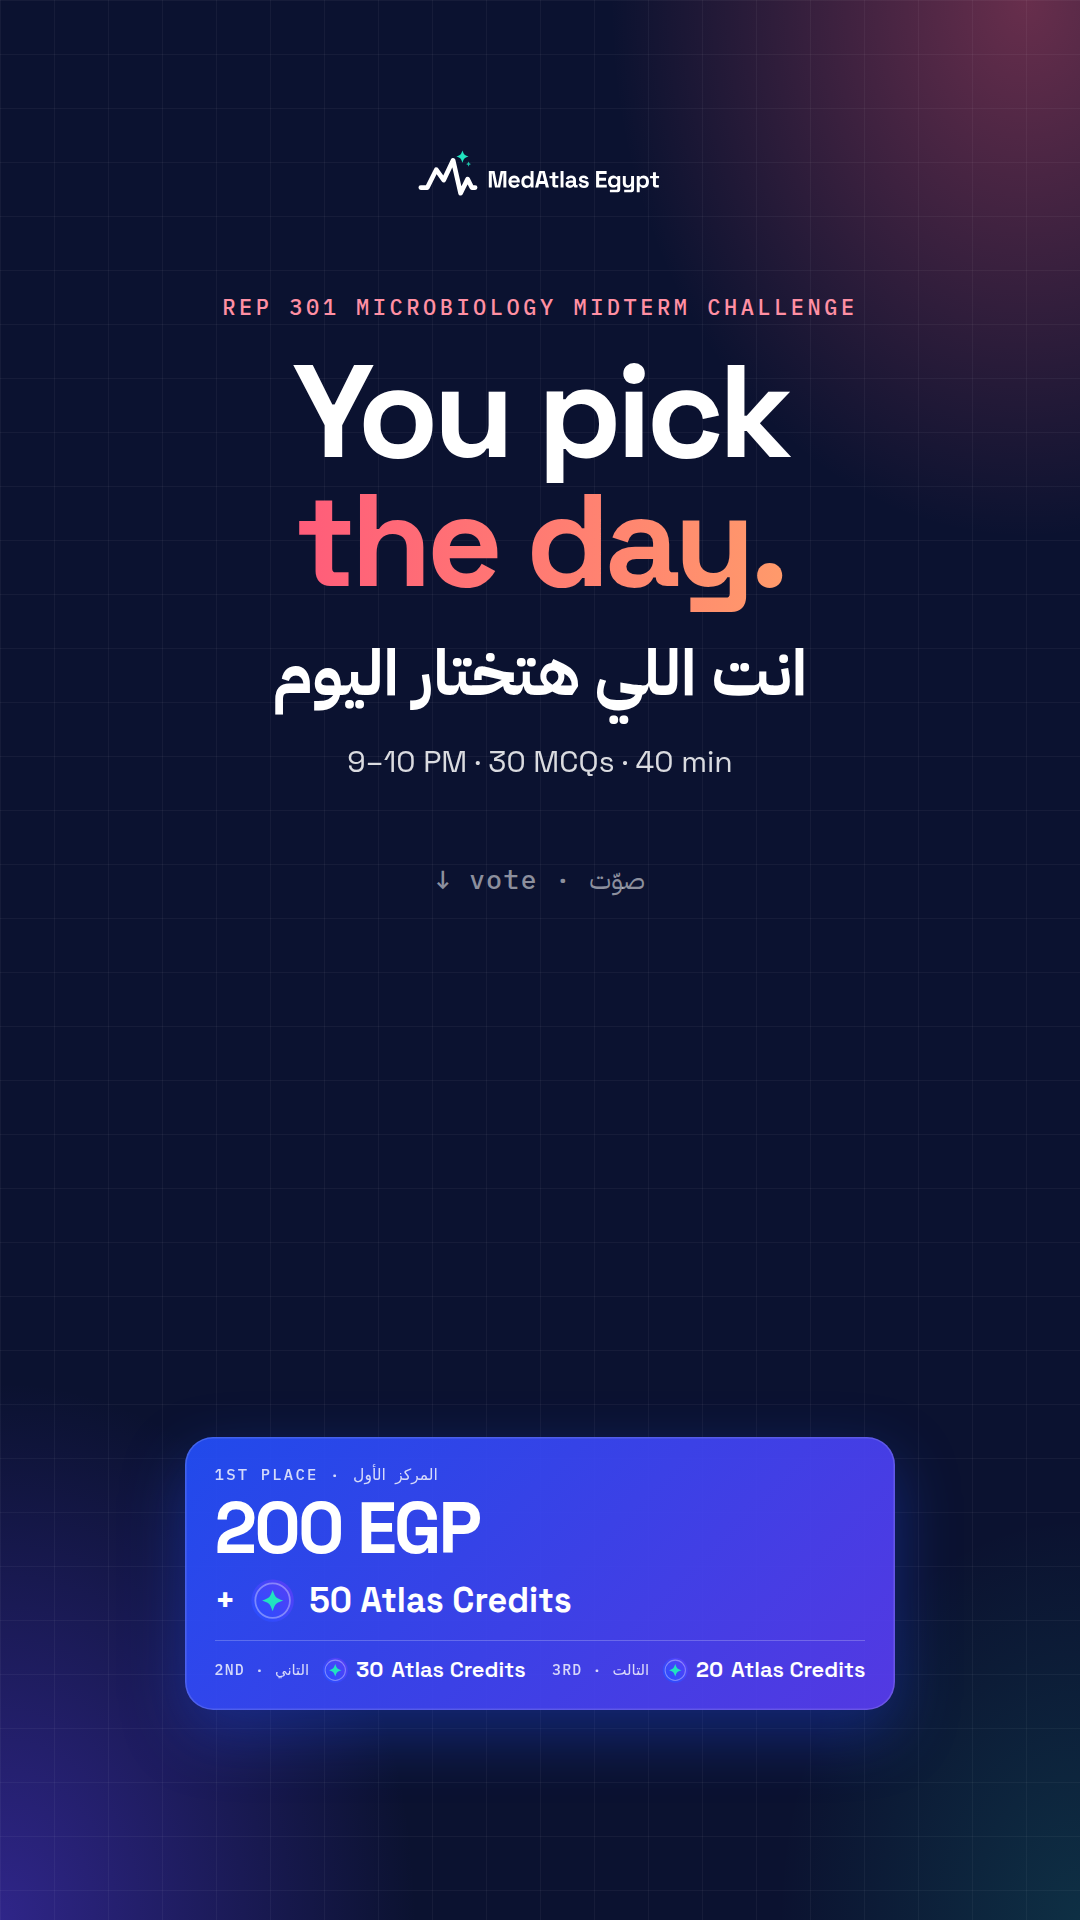
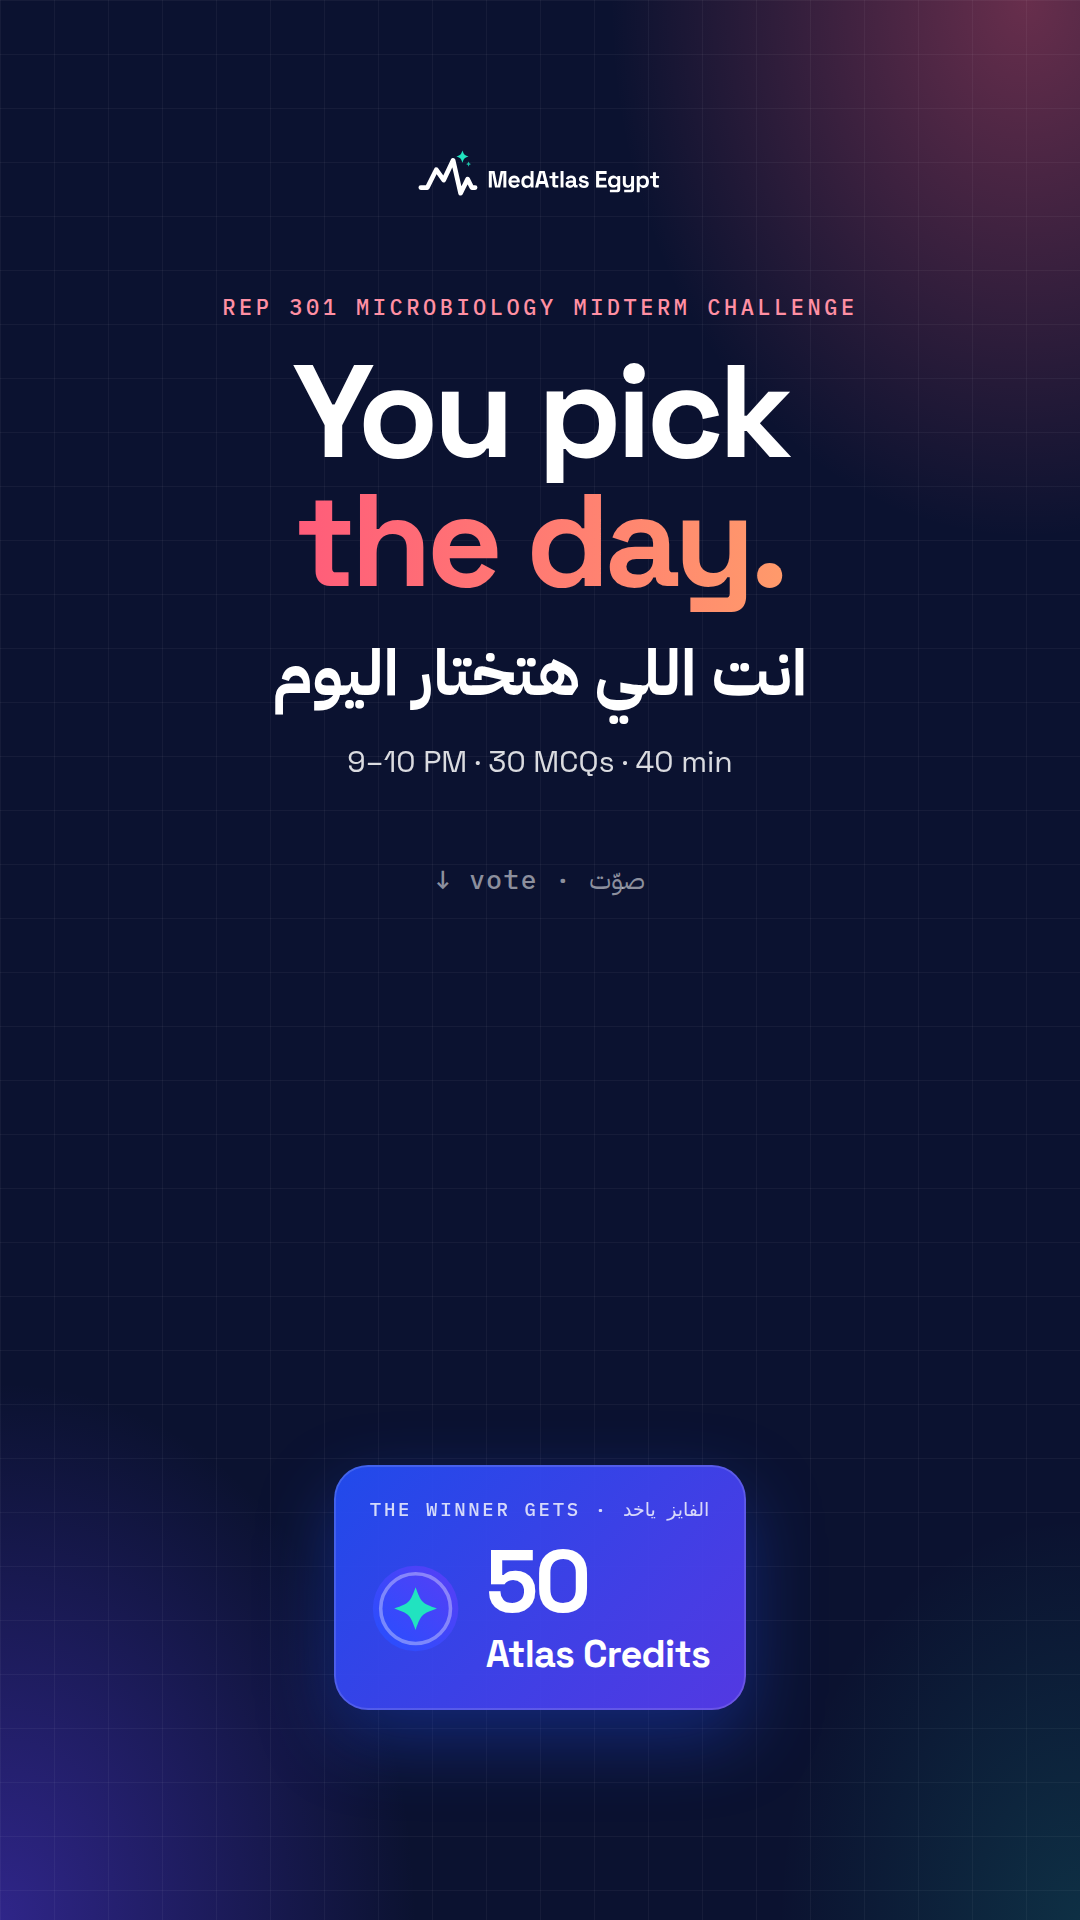
REP challenge designs: winner-only prize of 50 Atlas Credits

Changed region(s): [[0.1528, 0.75, 0.8556, 0.9062]]

diff --git a/_source/rep-challenge/post-comp-rep-challenge.html b/_source/rep-challenge/post-comp-rep-challenge.html
@@ -1,15 +1,14 @@
 <!doctype html><html><head><meta charset="utf-8"><link rel="stylesheet" href="../comp.css"><style>:root{--w:1080px;--h:1350px}.fact{padding:16px 24px}.fact b{font-size:31px}</style></head><body><div class="frame">
   <div class="top"><img src="../../../logo/final/svg/medatlas-logo-horizontal-reversed.svg" alt=""><span class="chip rep-c">Thu 15 Oct · 9 PM</span></div>
-  <div style="margin-top:34px"><span class="label">New competition · مسابقة جديدة</span></div>
-  <div class="h1" style="--h1:96px;margin-top:18px"><span class="sub">Microbiology</span>REP 301<br><span class="rep">Midterm Challenge.</span></div>
-  <div class="ar-line" style="margin-top:10px;font-size:48px">تحدّي ميدترم ميكرو REP 301</div>
-  <div class="body" style="margin-top:8px;font-size:29px">30 MCQs (cases included) on the 2 REP lectures.</div>
-  <div style="margin-top:22px"><div class="prize" style="zoom:0.86">
-  <div class="k">1st place · المركز الأول</div><div class="v">200 EGP</div>
-  <div class="plus">+ <svg width="58" height="58" viewBox="0 0 128 128"><defs><linearGradient id="cg1" x1="0" y1="128" x2="128" y2="0" gradientUnits="userSpaceOnUse"><stop offset="0" stop-color="#2350FF"/><stop offset="1" stop-color="#5B3DF5"/></linearGradient></defs><circle cx="64" cy="64" r="60" fill="url(#cg1)"/><circle cx="64" cy="64" r="49" fill="none" stroke="#fff" stroke-opacity=".35" stroke-width="5"/><path d="M64 34 C72.1 55.9 72.1 55.9 94 64 C72.1 72.1 72.1 72.1 64 94 C55.9 72.1 55.9 72.1 34 64 C55.9 55.9 55.9 55.9 64 34 Z" fill="#21E3C0"/></svg> 50 Atlas Credits</div>
-  <div class="runners"><div><span class="pl">2nd · التاني</span><svg width="34" height="34" viewBox="0 0 128 128"><defs><linearGradient id="cg2" x1="0" y1="128" x2="128" y2="0" gradientUnits="userSpaceOnUse"><stop offset="0" stop-color="#2350FF"/><stop offset="1" stop-color="#5B3DF5"/></linearGradient></defs><circle cx="64" cy="64" r="60" fill="url(#cg2)"/><circle cx="64" cy="64" r="49" fill="none" stroke="#fff" stroke-opacity=".35" stroke-width="5"/><path d="M64 34 C72.1 55.9 72.1 55.9 94 64 C72.1 72.1 72.1 72.1 64 94 C55.9 72.1 55.9 72.1 34 64 C55.9 55.9 55.9 55.9 64 34 Z" fill="#21E3C0"/></svg><b>30</b> Atlas Credits</div><div><span class="pl">3rd · التالت</span><svg width="34" height="34" viewBox="0 0 128 128"><defs><linearGradient id="cg3" x1="0" y1="128" x2="128" y2="0" gradientUnits="userSpaceOnUse"><stop offset="0" stop-color="#2350FF"/><stop offset="1" stop-color="#5B3DF5"/></linearGradient></defs><circle cx="64" cy="64" r="60" fill="url(#cg3)"/><circle cx="64" cy="64" r="49" fill="none" stroke="#fff" stroke-opacity=".35" stroke-width="5"/><path d="M64 34 C72.1 55.9 72.1 55.9 94 64 C72.1 72.1 72.1 72.1 64 94 C55.9 72.1 55.9 72.1 34 64 C55.9 55.9 55.9 55.9 64 34 Z" fill="#21E3C0"/></svg><b>20</b> Atlas Credits</div></div>
+  <div style="margin-top:44px"><span class="label">New competition · مسابقة جديدة</span></div>
+  <div class="h1" style="--h1:112px;margin-top:22px"><span class="sub">Microbiology</span>REP 301<br><span class="rep">Midterm Challenge.</span></div>
+  <div class="ar-line" style="margin-top:14px;font-size:52px">تحدّي ميدترم ميكرو REP 301</div>
+  <div class="body" style="margin-top:10px;font-size:31px">30 MCQs (cases included) on the 2 REP lectures.</div>
+  <div style="margin-top:36px"><div class="prize" style="zoom:1">
+  <div class="k">The winner gets · الفايز ياخد</div>
+  <div class="win"><svg width="96" height="96" viewBox="0 0 128 128"><defs><linearGradient id="cg1" x1="0" y1="128" x2="128" y2="0" gradientUnits="userSpaceOnUse"><stop offset="0" stop-color="#2350FF"/><stop offset="1" stop-color="#5B3DF5"/></linearGradient></defs><circle cx="64" cy="64" r="60" fill="url(#cg1)"/><circle cx="64" cy="64" r="49" fill="none" stroke="#fff" stroke-opacity=".35" stroke-width="5"/><path d="M64 34 C72.1 55.9 72.1 55.9 94 64 C72.1 72.1 72.1 72.1 64 94 C55.9 72.1 55.9 72.1 34 64 C55.9 55.9 55.9 55.9 64 34 Z" fill="#21E3C0"/></svg><div><div class="v">50</div><div class="u">Atlas Credits</div></div></div>
 </div></div>
-  <div class="facts" style="margin-top:18px">
+  <div class="facts" style="margin-top:22px">
     <div class="fact"><b>Thu 15 Oct · 9 PM</b><span class="ar">الخميس 15 أكتوبر، 9 مساءً</span></div>
     <div class="fact"><b>30 MCQs · 40 min</b><span class="ar">30 سؤال في 40 دقيقة</span></div>
   </div>

diff --git a/_source/rep-challenge/story-comp-rules.html b/_source/rep-challenge/story-comp-rules.html
@@ -5,8 +5,7 @@
   <div class="ar-line" style="margin-top:4px;font-size:48px">إزاي تشارك</div>
   <div style="margin-top:22px"><div class="rule"><div class="n">1</div><div><div class="en">Follow @medatlas_eg on Instagram and join our WhatsApp Channel</div><div class="arx">تابعنا على إنستجرام وانضم لقناة الواتساب</div></div></div><div class="rule"><div class="n">2</div><div><div class="en">Sign up on MedAtlas, free</div><div class="arx">سجّل على MedAtlas ببلاش</div></div></div><div class="rule"><div class="n">3</div><div><div class="en">Thu 15 Oct · opens 9:00 PM · last entry 9:15 PM</div><div class="arx">الخميس 15 أكتوبر: يفتح 9:00 م، وآخر دخول 9:15 م</div></div></div><div class="rule"><div class="n">4</div><div><div class="en">30 MCQs (cases included) · 40 min · 1 attempt</div><div class="arx">30 سؤال منهم حالات مرضية، 40 دقيقة، ومحاولة واحدة</div></div></div><div class="rule"><div class="n">5</div><div><div class="en">Highest score wins · tie? fastest wins</div><div class="arx">أعلى درجة تكسب، ولو في تعادل الأسرع يكسب</div></div></div><div class="rule"><div class="n">6</div><div><div class="en">Winners checked by university ID + Instagram, announced Fri 16 Oct, 8 PM</div><div class="arx">هنتأكد من الفايزين ونعلنهم الجمعة 16 أكتوبر 8 م، مع الإجابات</div></div></div></div>
   <div style="margin-top:8px"><div class="prize" style="zoom:0.8">
-  <div class="k">1st place · المركز الأول</div><div class="v">200 EGP</div>
-  <div class="plus">+ <svg width="58" height="58" viewBox="0 0 128 128"><defs><linearGradient id="cg4" x1="0" y1="128" x2="128" y2="0" gradientUnits="userSpaceOnUse"><stop offset="0" stop-color="#2350FF"/><stop offset="1" stop-color="#5B3DF5"/></linearGradient></defs><circle cx="64" cy="64" r="60" fill="url(#cg4)"/><circle cx="64" cy="64" r="49" fill="none" stroke="#fff" stroke-opacity=".35" stroke-width="5"/><path d="M64 34 C72.1 55.9 72.1 55.9 94 64 C72.1 72.1 72.1 72.1 64 94 C55.9 72.1 55.9 72.1 34 64 C55.9 55.9 55.9 55.9 64 34 Z" fill="#21E3C0"/></svg> 50 Atlas Credits</div>
-  <div class="runners"><div><span class="pl">2nd · التاني</span><svg width="34" height="34" viewBox="0 0 128 128"><defs><linearGradient id="cg5" x1="0" y1="128" x2="128" y2="0" gradientUnits="userSpaceOnUse"><stop offset="0" stop-color="#2350FF"/><stop offset="1" stop-color="#5B3DF5"/></linearGradient></defs><circle cx="64" cy="64" r="60" fill="url(#cg5)"/><circle cx="64" cy="64" r="49" fill="none" stroke="#fff" stroke-opacity=".35" stroke-width="5"/><path d="M64 34 C72.1 55.9 72.1 55.9 94 64 C72.1 72.1 72.1 72.1 64 94 C55.9 72.1 55.9 72.1 34 64 C55.9 55.9 55.9 55.9 64 34 Z" fill="#21E3C0"/></svg><b>30</b> Atlas Credits</div><div><span class="pl">3rd · التالت</span><svg width="34" height="34" viewBox="0 0 128 128"><defs><linearGradient id="cg6" x1="0" y1="128" x2="128" y2="0" gradientUnits="userSpaceOnUse"><stop offset="0" stop-color="#2350FF"/><stop offset="1" stop-color="#5B3DF5"/></linearGradient></defs><circle cx="64" cy="64" r="60" fill="url(#cg6)"/><circle cx="64" cy="64" r="49" fill="none" stroke="#fff" stroke-opacity=".35" stroke-width="5"/><path d="M64 34 C72.1 55.9 72.1 55.9 94 64 C72.1 72.1 72.1 72.1 64 94 C55.9 72.1 55.9 72.1 34 64 C55.9 55.9 55.9 55.9 64 34 Z" fill="#21E3C0"/></svg><b>20</b> Atlas Credits</div></div>
+  <div class="k">The winner gets · الفايز ياخد</div>
+  <div class="win"><svg width="96" height="96" viewBox="0 0 128 128"><defs><linearGradient id="cg2" x1="0" y1="128" x2="128" y2="0" gradientUnits="userSpaceOnUse"><stop offset="0" stop-color="#2350FF"/><stop offset="1" stop-color="#5B3DF5"/></linearGradient></defs><circle cx="64" cy="64" r="60" fill="url(#cg2)"/><circle cx="64" cy="64" r="49" fill="none" stroke="#fff" stroke-opacity=".35" stroke-width="5"/><path d="M64 34 C72.1 55.9 72.1 55.9 94 64 C72.1 72.1 72.1 72.1 64 94 C55.9 72.1 55.9 72.1 34 64 C55.9 55.9 55.9 55.9 64 34 Z" fill="#21E3C0"/></svg><div><div class="v">50</div><div class="u">Atlas Credits</div></div></div>
 </div></div>
   <div class="body" style="margin-top:20px;font-size:25px;opacity:.65">Only your first attempt counts · <span class="ar">أول محاولة بس اللي بتتحسب</span></div></div></body></html>

diff --git a/_source/rep-challenge/story-comp-countdown.html b/_source/rep-challenge/story-comp-countdown.html
@@ -5,9 +5,8 @@
   <div class="ar" style="font-weight:700;font-size:56px;margin-top:18px">تحدّي ميدترم ميكرو REP 301</div>
   <div class="body" style="margin-top:14px;font-size:30px">30 MCQs · 40 min · <span class="ar">الخميس 9 مساءً</span></div></div>
   <div style="margin:48px auto 0"><div class="prize" style="zoom:0.95">
-  <div class="k">1st place · المركز الأول</div><div class="v">200 EGP</div>
-  <div class="plus">+ <svg width="58" height="58" viewBox="0 0 128 128"><defs><linearGradient id="cg7" x1="0" y1="128" x2="128" y2="0" gradientUnits="userSpaceOnUse"><stop offset="0" stop-color="#2350FF"/><stop offset="1" stop-color="#5B3DF5"/></linearGradient></defs><circle cx="64" cy="64" r="60" fill="url(#cg7)"/><circle cx="64" cy="64" r="49" fill="none" stroke="#fff" stroke-opacity=".35" stroke-width="5"/><path d="M64 34 C72.1 55.9 72.1 55.9 94 64 C72.1 72.1 72.1 72.1 64 94 C55.9 72.1 55.9 72.1 34 64 C55.9 55.9 55.9 55.9 64 34 Z" fill="#21E3C0"/></svg> 50 Atlas Credits</div>
-  <div class="runners"><div><span class="pl">2nd · التاني</span><svg width="34" height="34" viewBox="0 0 128 128"><defs><linearGradient id="cg8" x1="0" y1="128" x2="128" y2="0" gradientUnits="userSpaceOnUse"><stop offset="0" stop-color="#2350FF"/><stop offset="1" stop-color="#5B3DF5"/></linearGradient></defs><circle cx="64" cy="64" r="60" fill="url(#cg8)"/><circle cx="64" cy="64" r="49" fill="none" stroke="#fff" stroke-opacity=".35" stroke-width="5"/><path d="M64 34 C72.1 55.9 72.1 55.9 94 64 C72.1 72.1 72.1 72.1 64 94 C55.9 72.1 55.9 72.1 34 64 C55.9 55.9 55.9 55.9 64 34 Z" fill="#21E3C0"/></svg><b>30</b> Atlas Credits</div><div><span class="pl">3rd · التالت</span><svg width="34" height="34" viewBox="0 0 128 128"><defs><linearGradient id="cg9" x1="0" y1="128" x2="128" y2="0" gradientUnits="userSpaceOnUse"><stop offset="0" stop-color="#2350FF"/><stop offset="1" stop-color="#5B3DF5"/></linearGradient></defs><circle cx="64" cy="64" r="60" fill="url(#cg9)"/><circle cx="64" cy="64" r="49" fill="none" stroke="#fff" stroke-opacity=".35" stroke-width="5"/><path d="M64 34 C72.1 55.9 72.1 55.9 94 64 C72.1 72.1 72.1 72.1 64 94 C55.9 72.1 55.9 72.1 34 64 C55.9 55.9 55.9 55.9 64 34 Z" fill="#21E3C0"/></svg><b>20</b> Atlas Credits</div></div>
+  <div class="k">The winner gets · الفايز ياخد</div>
+  <div class="win"><svg width="96" height="96" viewBox="0 0 128 128"><defs><linearGradient id="cg3" x1="0" y1="128" x2="128" y2="0" gradientUnits="userSpaceOnUse"><stop offset="0" stop-color="#2350FF"/><stop offset="1" stop-color="#5B3DF5"/></linearGradient></defs><circle cx="64" cy="64" r="60" fill="url(#cg3)"/><circle cx="64" cy="64" r="49" fill="none" stroke="#fff" stroke-opacity=".35" stroke-width="5"/><path d="M64 34 C72.1 55.9 72.1 55.9 94 64 C72.1 72.1 72.1 72.1 64 94 C55.9 72.1 55.9 72.1 34 64 C55.9 55.9 55.9 55.9 64 34 Z" fill="#21E3C0"/></svg><div><div class="v">50</div><div class="u">Atlas Credits</div></div></div>
 </div></div>
   <div style="flex:1"></div>
   <div class="body" style="text-align:center;font-size:28px;opacity:.7">↓ set a reminder · <span class="ar">فعّل التذكير</span></div>

diff --git a/_source/rep-challenge/story-comp-poll.html b/_source/rep-challenge/story-comp-poll.html
@@ -6,8 +6,7 @@
   <div class="body" style="margin-top:18px;font-size:30px">9–10 PM · 30 MCQs · 40 min</div></div>
   <div class="slot"><span>↓ vote · <span class="ar">صوّت</span></span></div>
   <div style="flex:1"></div>
-  <div style="margin:0 auto"><div class="prize" style="zoom:0.78">
-  <div class="k">1st place · المركز الأول</div><div class="v">200 EGP</div>
-  <div class="plus">+ <svg width="58" height="58" viewBox="0 0 128 128"><defs><linearGradient id="cg10" x1="0" y1="128" x2="128" y2="0" gradientUnits="userSpaceOnUse"><stop offset="0" stop-color="#2350FF"/><stop offset="1" stop-color="#5B3DF5"/></linearGradient></defs><circle cx="64" cy="64" r="60" fill="url(#cg10)"/><circle cx="64" cy="64" r="49" fill="none" stroke="#fff" stroke-opacity=".35" stroke-width="5"/><path d="M64 34 C72.1 55.9 72.1 55.9 94 64 C72.1 72.1 72.1 72.1 64 94 C55.9 72.1 55.9 72.1 34 64 C55.9 55.9 55.9 55.9 64 34 Z" fill="#21E3C0"/></svg> 50 Atlas Credits</div>
-  <div class="runners"><div><span class="pl">2nd · التاني</span><svg width="34" height="34" viewBox="0 0 128 128"><defs><linearGradient id="cg11" x1="0" y1="128" x2="128" y2="0" gradientUnits="userSpaceOnUse"><stop offset="0" stop-color="#2350FF"/><stop offset="1" stop-color="#5B3DF5"/></linearGradient></defs><circle cx="64" cy="64" r="60" fill="url(#cg11)"/><circle cx="64" cy="64" r="49" fill="none" stroke="#fff" stroke-opacity=".35" stroke-width="5"/><path d="M64 34 C72.1 55.9 72.1 55.9 94 64 C72.1 72.1 72.1 72.1 64 94 C55.9 72.1 55.9 72.1 34 64 C55.9 55.9 55.9 55.9 64 34 Z" fill="#21E3C0"/></svg><b>30</b> Atlas Credits</div><div><span class="pl">3rd · التالت</span><svg width="34" height="34" viewBox="0 0 128 128"><defs><linearGradient id="cg12" x1="0" y1="128" x2="128" y2="0" gradientUnits="userSpaceOnUse"><stop offset="0" stop-color="#2350FF"/><stop offset="1" stop-color="#5B3DF5"/></linearGradient></defs><circle cx="64" cy="64" r="60" fill="url(#cg12)"/><circle cx="64" cy="64" r="49" fill="none" stroke="#fff" stroke-opacity=".35" stroke-width="5"/><path d="M64 34 C72.1 55.9 72.1 55.9 94 64 C72.1 72.1 72.1 72.1 64 94 C55.9 72.1 55.9 72.1 34 64 C55.9 55.9 55.9 55.9 64 34 Z" fill="#21E3C0"/></svg><b>20</b> Atlas Credits</div></div>
+  <div style="margin:0 auto"><div class="prize" style="zoom:0.95">
+  <div class="k">The winner gets · الفايز ياخد</div>
+  <div class="win"><svg width="96" height="96" viewBox="0 0 128 128"><defs><linearGradient id="cg4" x1="0" y1="128" x2="128" y2="0" gradientUnits="userSpaceOnUse"><stop offset="0" stop-color="#2350FF"/><stop offset="1" stop-color="#5B3DF5"/></linearGradient></defs><circle cx="64" cy="64" r="60" fill="url(#cg4)"/><circle cx="64" cy="64" r="49" fill="none" stroke="#fff" stroke-opacity=".35" stroke-width="5"/><path d="M64 34 C72.1 55.9 72.1 55.9 94 64 C72.1 72.1 72.1 72.1 64 94 C55.9 72.1 55.9 72.1 34 64 C55.9 55.9 55.9 55.9 64 34 Z" fill="#21E3C0"/></svg><div><div class="v">50</div><div class="u">Atlas Credits</div></div></div>
 </div></div></div></body></html>

diff --git a/_source/rep-challenge/comp.css b/_source/rep-challenge/comp.css
@@ -37,5 +37,8 @@ body::after { content: ""; position: absolute; inset: 0; background-size: 54px 5
 .rule .arx { font-family: "IBM Plex Sans Arabic"; font-weight: 500; direction: rtl; text-align: left; font-size: 30px; opacity: .75; margin-top: 4px; }
 .h1 .sub { display: flex; font: 500 26px "IBM Plex Mono"; letter-spacing: .14em; text-transform: uppercase; color: #21E3C0; margin-bottom: 14px; }
 .prize .runners { display: flex; gap: 34px; margin-top: 22px; padding-top: 20px; border-top: 1.5px solid rgba(255,255,255,.22); font-weight: 600; font-size: 28px; }
+.prize .win { display: flex; align-items: center; gap: 26px; margin-top: 18px; }
+.prize .win .v { margin-top: 0; }
+.prize .win .u { font-weight: 700; font-size: 40px; letter-spacing: -.02em; margin-top: 4px; }
 .prize .runners div { display: flex; align-items: center; gap: 10px; }
 .prize .runners .pl { font: 500 19px "IBM Plex Mono"; letter-spacing: .08em; text-transform: uppercase; opacity: .8; margin-right: 6px; }

diff --git a/_source/rep-challenge/comp_build.py b/_source/rep-challenge/comp_build.py
@@ -19,9 +19,8 @@ LOGO = '<img src="../../../logo/final/svg/medatlas-logo-horizontal-reversed.svg"
 
 def prize(zoom=1.0):
     return f'''<div class="prize" style="zoom:{zoom}">
-  <div class="k">1st place · المركز الأول</div><div class="v">200 EGP</div>
-  <div class="plus">+ {coin(58)} 50 Atlas Credits</div>
-  <div class="runners"><div><span class="pl">2nd · التاني</span>{coin(34)}<b>30</b> Atlas Credits</div><div><span class="pl">3rd · التالت</span>{coin(34)}<b>20</b> Atlas Credits</div></div>
+  <div class="k">The winner gets · الفايز ياخد</div>
+  <div class="win">{coin(96)}<div><div class="v">50</div><div class="u">Atlas Credits</div></div></div>
 </div>'''
 
 
@@ -36,12 +35,12 @@ AR_TITLE = 'تحدّي ميدترم ميكرو REP 301'
 
 page("post-comp-rep-challenge", 1080, 1350, f'''
   <div class="top">{LOGO}<span class="chip rep-c">Thu 15 Oct · 9 PM</span></div>
-  <div style="margin-top:34px"><span class="label">New competition · مسابقة جديدة</span></div>
-  <div class="h1" style="--h1:96px;margin-top:18px">{TITLE}</div>
-  <div class="ar-line" style="margin-top:10px;font-size:48px">{AR_TITLE}</div>
-  <div class="body" style="margin-top:8px;font-size:29px">30 MCQs (cases included) on the 2 REP lectures.</div>
-  <div style="margin-top:22px">{prize(.86)}</div>
-  <div class="facts" style="margin-top:18px">
+  <div style="margin-top:44px"><span class="label">New competition · مسابقة جديدة</span></div>
+  <div class="h1" style="--h1:112px;margin-top:22px">{TITLE}</div>
+  <div class="ar-line" style="margin-top:14px;font-size:52px">{AR_TITLE}</div>
+  <div class="body" style="margin-top:10px;font-size:31px">30 MCQs (cases included) on the 2 REP lectures.</div>
+  <div style="margin-top:36px">{prize(1)}</div>
+  <div class="facts" style="margin-top:22px">
     <div class="fact"><b>Thu 15 Oct · 9 PM</b><span class="ar">الخميس 15 أكتوبر، 9 مساءً</span></div>
     <div class="fact"><b>30 MCQs · 40 min</b><span class="ar">30 سؤال في 40 دقيقة</span></div>
   </div>

diff --git a/_source/rep-challenge/poll_build.py b/_source/rep-challenge/poll_build.py
@@ -9,7 +9,7 @@ page("story-comp-poll", 1080, 1920, f'''
   <div class="body" style="margin-top:18px;font-size:30px">9–10 PM · 30 MCQs · 40 min</div></div>
   <div class="slot"><span>↓ vote · <span class="ar">صوّت</span></span></div>
   <div style="flex:1"></div>
-  <div style="margin:0 auto">{prize(.78)}</div>''',
+  <div style="margin:0 auto">{prize(.95)}</div>''',
      ".frame{padding:150px 84px 210px}"
      ".slot{margin:56px auto 0;width:820px;height:420px;border-radius:40px;"
      "display:flex;align-items:flex-start;justify-content:center;padding-top:22px;font:500 26px 'IBM Plex Mono';letter-spacing:.06em;color:rgba(255,255,255,.55)}")
